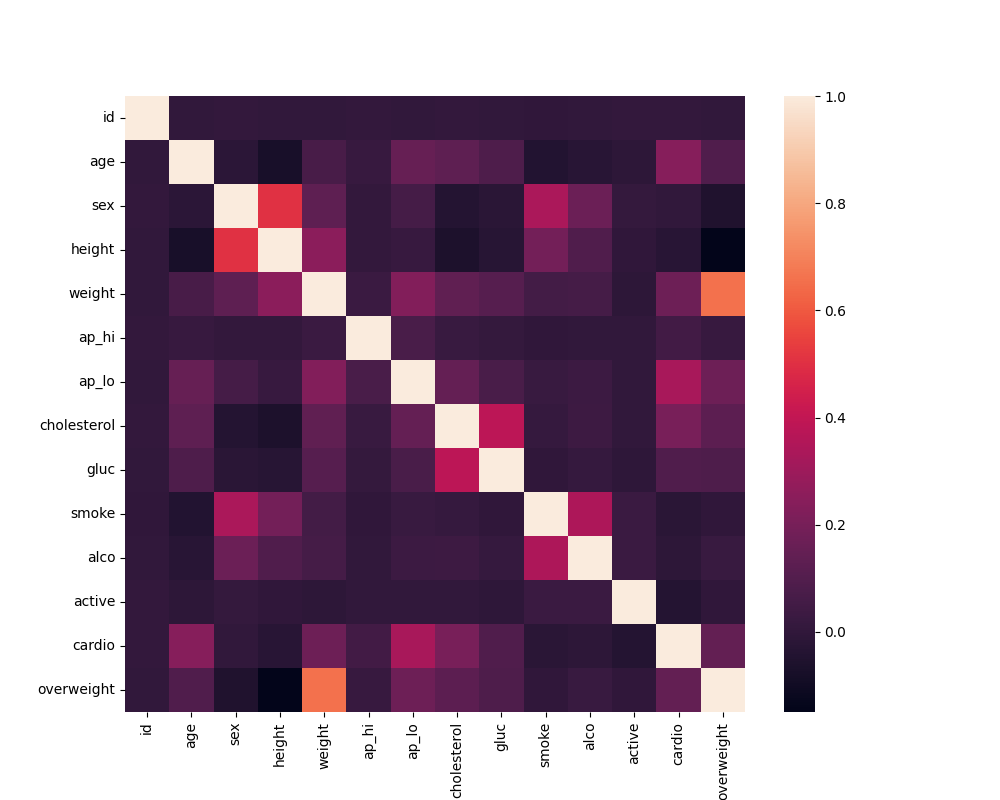
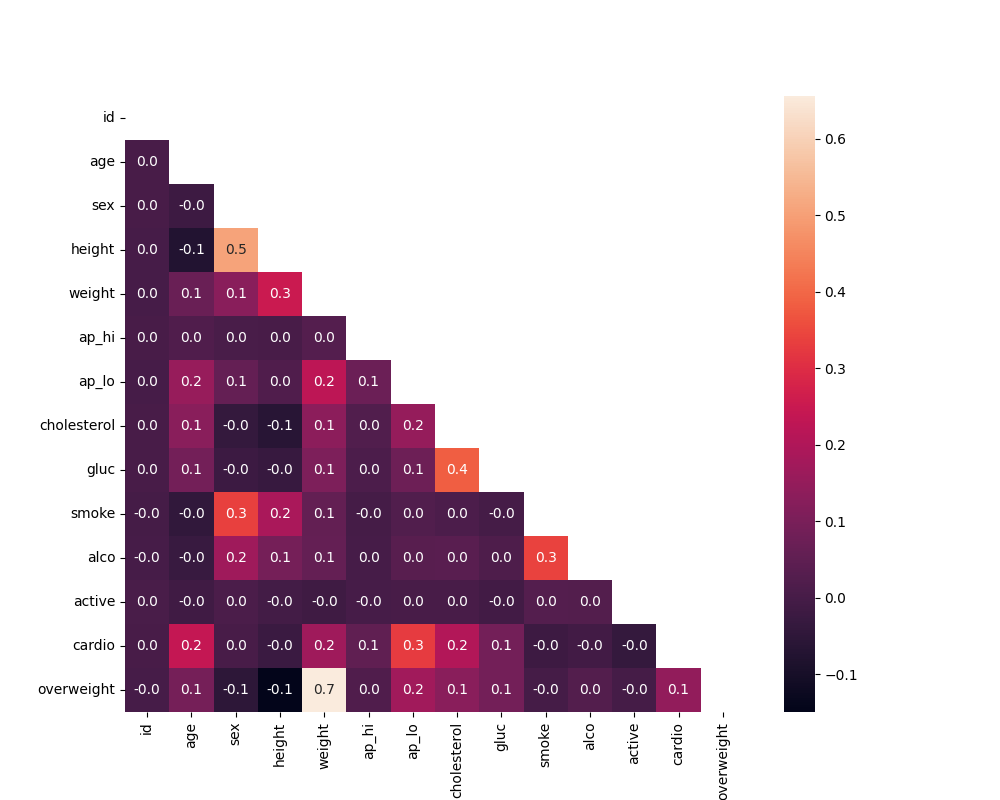
passed all tests

diff --git a/medical_data_visualizer.py b/medical_data_visualizer.py
@@ -54,7 +54,6 @@ def draw_heat_map():
         #cleaned rows where the dystolic pressure is higher than the systolic pressure
     df_cleanedrows1 = df[df['ap_lo'] <= df['ap_hi']]
 
-
         #calculating the quantiles for the 'height' column
     height_2_5 = df['height'].quantile(0.025)
     height_97_5 = df['height'].quantile(0.975)
@@ -80,7 +79,7 @@ def draw_heat_map():
     fig, ax = plt.subplots(figsize=(10,8))
 
     # Draw the heatmap with 'sns.heatmap()'
-    sns.heatmap(corr)
+    sns.heatmap(corr, mask=mask, annot=True, fmt=".1f", cbar=True)
 
 
     # Do not modify the next two lines
